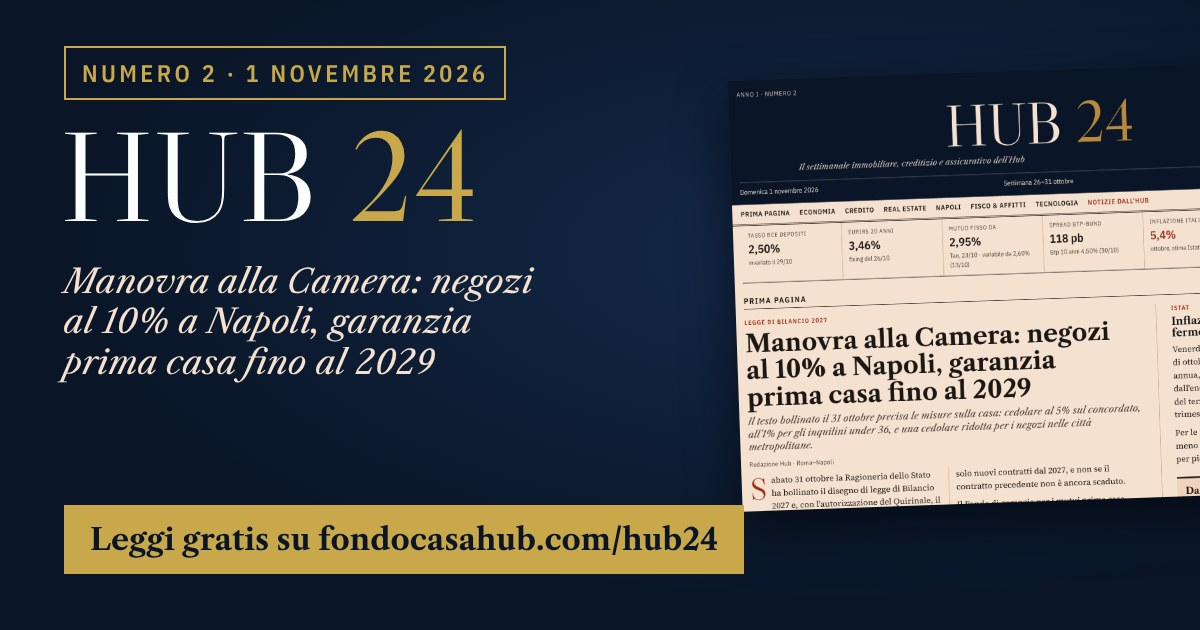
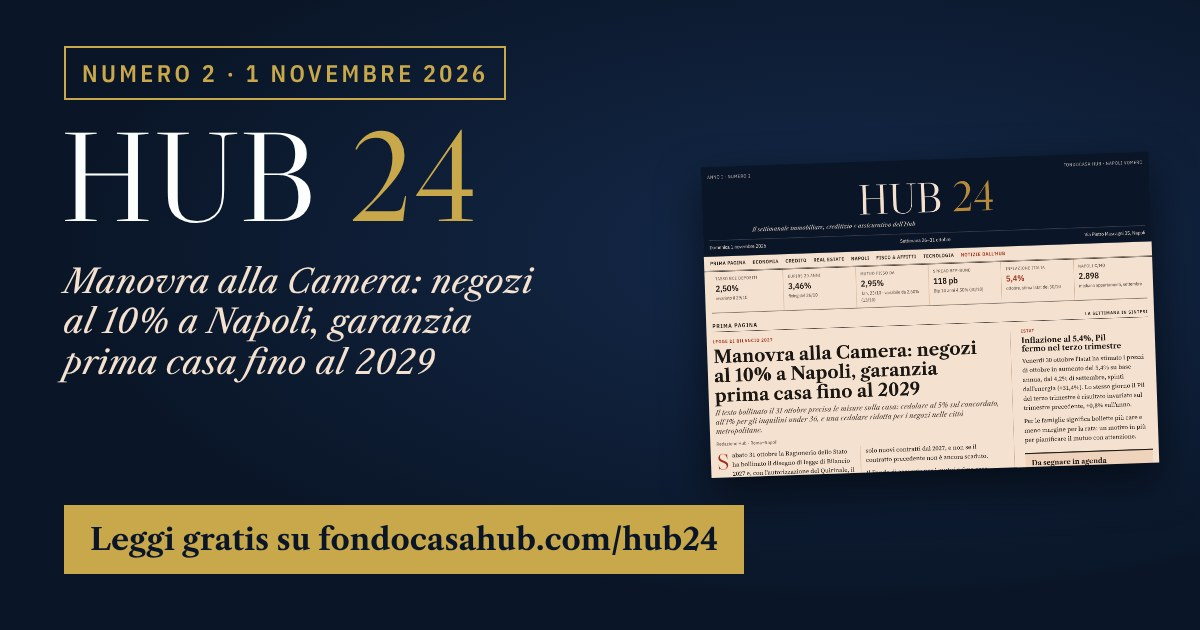
HUB 24: anteprima di condivisione con la copertina intera (non tagliata)
Claude-Session: https://claude.ai/code/session_011GrFubVfHT9qPyCHLLL9f1

diff --git a/scripts/hub24-og.py b/scripts/hub24-og.py
@@ -22,9 +22,9 @@ body{{width:1200px;height:630px;overflow:hidden;background:radial-gradient(ellip
 .k{{position:absolute;left:64px;top:46px;font-family:'IBM Plex Sans Condensed';font-weight:600;font-size:24px;letter-spacing:.14em;text-transform:uppercase;color:#C9A84C;border:2px solid #C9A84C;padding:9px 16px}}
 h1{{position:absolute;left:60px;top:112px;font-family:'Libre Caslon Display';font-weight:400;font-size:128px;line-height:1}}
 h1 b{{color:#C9A84C;font-weight:400}}
-.t{{position:absolute;left:64px;top:262px;width:600px;font-family:'Libre Caslon Text';font-style:italic;font-size:{fs}px;line-height:1.22;color:#F5E1CF;text-wrap:balance}}
+.t{{position:absolute;left:64px;top:262px;width:590px;font-family:'Libre Caslon Text';font-style:italic;font-size:{fs}px;line-height:1.22;color:#F5E1CF;text-wrap:balance}}
 .cta{{position:absolute;left:64px;bottom:56px;background:#C9A84C;color:#0A1628;font-family:'Libre Caslon Text';font-weight:700;font-size:30px;padding:16px 26px}}
-.p{{position:absolute;left:735px;top:70px;width:620px;transform:rotate(-2deg);box-shadow:0 20px 50px rgba(0,0,0,.55)}}
+.p{{position:absolute;right:46px;top:50%;width:448px;transform:translateY(-50%) rotate(-2deg);box-shadow:0 18px 44px rgba(0,0,0,.55)}}
 .p img{{width:100%;display:block}}
 </style></head><body>
 <span class="k">{kicker}</span><h1>HUB <b>24</b></h1><p class="t">{titolo}</p>
